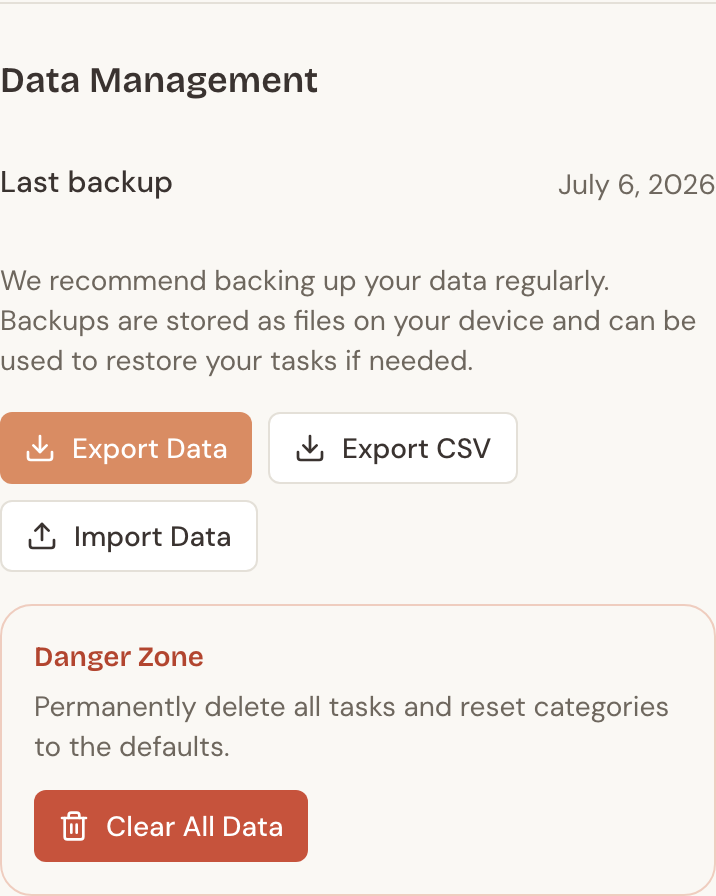
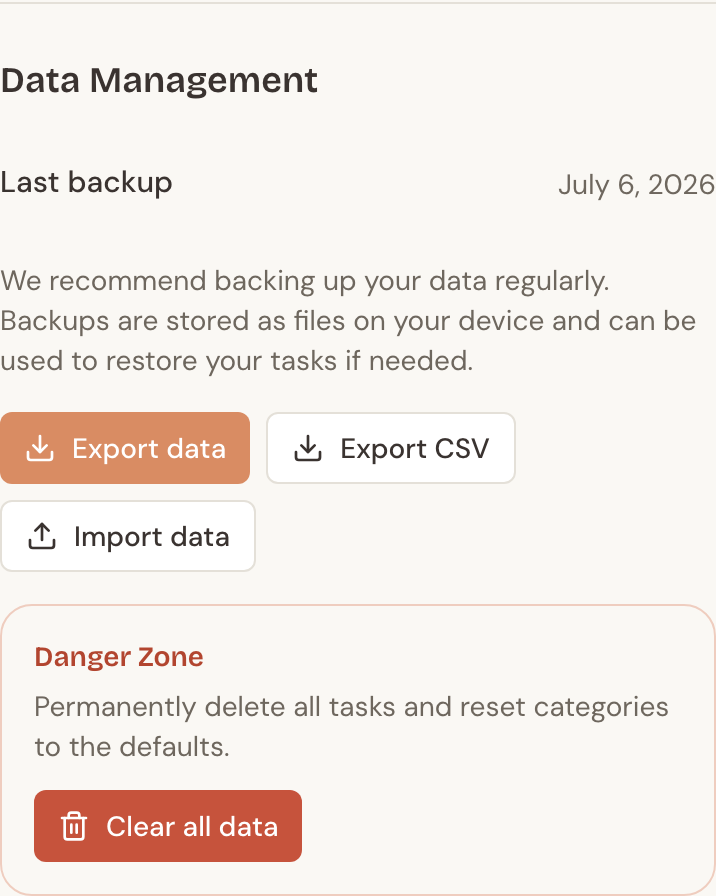
fix: 1.0.0 final-review fixes (copy, casing, docs, theme-color)
Pre-release review (full test suite + three parallel audits) surfaced 11
should-fixes and 17 nits; this applies all of them.

App copy: honest archive wording (no un-archive path in this version),
default-view helper reflects the follows-your-last-view behavior, import
dialog lists settings among what's replaced, "Task deleted" toast and
"Can't remove a default category that still has tasks" error unify the
delete/remove terminology, About blurb drops the idiom, and the "None"
icon pill loses its label-in-name violation (WCAG 2.5.3).

Casing convention (new, codified in CONTENT_STRATEGY_GUIDE §2.2):
sentence case for buttons/actions (Export data, Import data, Clear all
data, New category), Title Case for screen/dialog titles, acronyms stay
uppercase. Tests, guide text, and the three affected screenshots
(settings-data, categories, edit-task) regenerated; the other nine PNGs
are byte-identical.

Theme-color now tracks dark mode: media-scoped meta pair in index.html,
overridden by the pre-paint script and PreferencesProvider when a theme
is forced, restored per-media for 'system' (new unit test).

Docs: Req 11.7 → 9.7 everywhere it was miscited (CHANGELOG, ROADMAP,
ci.yml comment, B0 register), DEVELOPER_GUIDE same-day staleness cluster
(B9 marked done with register link, honest Notifications description,
"both places" version rule, five chunks + completions log in status),
ROADMAP header qualifier for the ✅ batches, README Phase 2 blurb,
[…]

diff --git a/public/user-guide.html b/public/user-guide.html
@@ -194,9 +194,9 @@ a fact, not a scolding.</li>
 <li><strong>Fast.</strong> Adding a task takes seconds, and marking one done is a single tap.</li>
 </ul>
 <h2 id="add-your-first-task">Add your first task</h2>
-<p><img src="images/user-guide/add-task.png" alt="The Add Task form, showing the name field and category pills" loading="lazy" /></p>
-<p>Tap the round <strong>+</strong> button (the terracotta circle in the bottom corner) to open
-the New Task form. Only two things are required:</p>
+<p><img src="images/user-guide/add-task.png" alt="The New Task form, showing the name field and category pills" loading="lazy" /></p>
+<p>Tap the terracotta <strong>+</strong> button in the bottom corner to open the New Task form.
+Only two things are required:</p>
 <ul>
 <li><strong>Task name</strong> — what needs doing, like “Descale coffee maker.” Up to 128
 characters.</li>
@@ -212,8 +212,8 @@ setting.</li>
 what lets the app flag a task as due soon or overdue. Leave it blank and the
 task is never overdue — the app just tracks how long it’s been.</li>
 <li><strong>Last done</strong> — Today, Yesterday, or Pick date. Already did it a while ago?
-Backfill the real date so the count starts from the right place. The default is
-“Not done yet.”</li>
+Backfill the real date so the count starts from the right place. If you leave
+it unset, the task starts as <strong>New</strong>.</li>
 </ul>
 <p>Need to jot down more? Open <strong>Add details</strong> for a description and private notes.
 When you’re happy, tap <strong>Save task</strong>.</p>
@@ -230,7 +230,8 @@ they show up as dashed suggestions you can tap to reuse.</p>
 same name. From then on they’re independent: completing “Guest room” doesn’t
 touch “Main bedroom,” and editing one never changes the others. In the By
 Category and By Time views they tuck neatly into a single group row so your list
-stays tidy (more on that next).</p>
+stays tidy (more on that next). In Quick Wins each place is ranked on its own,
+so an urgent one never hides inside a group.</p>
 <h2 id="three-ways-to-see-your-tasks">Three ways to see your tasks</h2>
 <p>Three tabs sit at the top of the app, and it remembers whichever one you used
 last.</p>
@@ -288,10 +289,10 @@ category, time estimate, frequency, last-done date, the place label, and the
 details. Tap <strong>Save changes</strong> when you’re done.</p>
 <p>At the bottom is a <strong>Remove Task</strong> area with two choices:</p>
 <ul>
-<li><strong>Archive</strong> hides the task from every view but keeps it in your data. Use this
-for something you’ve stopped doing but might pick up again. Note: this version
-has no in-app “un-archive” button yet — an archived task stays in your backups,
-so restoring a backup that still contains it brings it back.</li>
+<li><strong>Archive</strong> hides the task from every view but keeps it in your data and your
+backups. Use it for something you’ve stopped doing but might pick up again.
+This version has no un-archive button yet — archived tasks simply wait, safely
+stored, until a future update adds one.</li>
 <li><strong>Delete</strong> removes the task permanently, after a quick confirmation. This one
 can’t be undone.</li>
 </ul>
@@ -305,7 +306,8 @@ Category view.</p>
 icon (15 options plus “None”), and add categories of your own. Deleting follows a
 few sensible rules:</p>
 <ul>
-<li>An <strong>empty</strong> category deletes after a quick confirm.</li>
+<li>An <strong>empty</strong> category deletes after a quick confirm. (Archived tasks still
+count — a category holding only archived tasks asks for reassignment too.)</li>
 <li>A category <strong>with tasks</strong> asks you to reassign those tasks to another category
 first.</li>
 <li>A <strong>default</strong> category that still has tasks can’t be deleted — edit it instead.</li>
@@ -319,7 +321,8 @@ first.</li>
 <li>Turn on <strong>High contrast</strong> for stronger borders and text.</li>
 <li>Turn on <strong>Reduced motion</strong> to calm animations.</li>
 </ul>
-<p>You can also set your <strong>default view</strong> — the tab the app opens to. Under
+<p>You can also pick your <strong>Default View</strong> — the tab the app opens to. Switching
+tabs updates it too, so the app normally opens right where you left off. Under
 <strong>Notifications</strong>, you’ll see why reminders live inside the app: your data stays
 on your device with no account, so there are no phone or email alerts to turn on
 yet. Phone notifications may come in a later release, alongside optional cloud
@@ -329,15 +332,15 @@ sync.</p>
 <p>Because your data lives only on your device, backups matter. In Settings under
 <strong>Data Management</strong>:</p>
 <ul>
-<li><strong>Export Data</strong> saves a complete JSON backup file. This is the full,
+<li><strong>Export data</strong> saves a complete JSON backup file. This is the full,
 restorable copy of everything, and it stamps the “Last backup” date.</li>
 <li><strong>Export CSV</strong> saves a tasks-only spreadsheet — handy for viewing your tasks
 elsewhere, though it isn’t used for restoring.</li>
-<li><strong>Import Data</strong> restores from a JSON backup. Importing <strong>replaces everything</strong>
+<li><strong>Import data</strong> restores from a JSON backup. Importing <strong>replaces everything</strong>
 currently in the app, so it asks you to confirm first.</li>
 </ul>
 <p>If it’s been more than two weeks since your last backup, a gentle reminder banner
-appears. And in the Danger Zone, <strong>Clear All Data</strong> wipes your tasks and resets
+appears. And in the Danger Zone, <strong>Clear all data</strong> wipes your tasks and resets
 the categories to the ten defaults — useful for starting fresh, but there’s no
 undo, so export first.</p>
 <h2 id="install-it-and-use-it-offline">Install it and use it offline</h2>
@@ -354,13 +357,13 @@ set. Past 80% of that interval, it’s “due soon”; past 100%, “overdue”;
 at all.</p>
 <p><strong>Can I share my tasks with my household?</strong>
 Not yet — sharing and syncing between devices are planned for a later release.
-For now, you can move your data between devices with Export Data and Import Data.</p>
+For now, you can move your data between devices with Export data and Import data.</p>
 <p><strong>How do I back up my data?</strong>
-Go to Settings → Data Management → Export Data. Keep that JSON file somewhere
+Go to Settings → Data Management → Export data. Keep that JSON file somewhere
 safe; it’s the only file that can fully restore your tasks.</p>
 <p><strong>What happens if I clear my browser data?</strong>
-Because everything is stored in your browser, clearing site data (or using Clear
-All Data) removes your tasks. That’s exactly why regular backups are worth the
+Because everything is stored in your browser, clearing site data (or using
+Clear all data) removes your tasks. That’s exactly why regular backups are worth the
 few seconds — an exported JSON file lets you restore everything.</p>
       </main>
       <footer>

diff --git a/src/components/layout/PreferencesProvider.test.tsx b/src/components/layout/PreferencesProvider.test.tsx
@@ -49,6 +49,35 @@ describe('PreferencesProvider', () => {
     expect(document.documentElement.hasAttribute('data-theme')).toBe(false);
   });
 
+  it('points both theme-color metas at a forced theme, then restores them for system', async () => {
+    document.head.insertAdjacentHTML(
+      'beforeend',
+      '<meta name="theme-color" content="#FAF8F4" media="(prefers-color-scheme: light)" />' +
+        '<meta name="theme-color" content="#24211D" media="(prefers-color-scheme: dark)" />',
+    );
+    const metaContents = () =>
+      Array.from(
+        document.head.querySelectorAll<HTMLMetaElement>('meta[name="theme-color"]'),
+        (m) => m.content,
+      );
+
+    try {
+      await db.settings.add({ ...DEFAULT_SETTINGS, theme: 'dark' });
+      render(<PreferencesProvider>app</PreferencesProvider>);
+
+      await waitFor(() => {
+        expect(metaContents()).toEqual(['#24211D', '#24211D']);
+      });
+
+      await db.settings.update('1', { theme: 'system' });
+      await waitFor(() => {
+        expect(metaContents()).toEqual(['#FAF8F4', '#24211D']);
+      });
+    } finally {
+      for (const m of document.head.querySelectorAll('meta[name="theme-color"]')) m.remove();
+    }
+  });
+
   it('adds no axe violations around its children', async () => {
     await db.settings.add({ ...DEFAULT_SETTINGS });
     const { container } = render(

diff --git a/src/components/layout/PreferencesProvider.tsx b/src/components/layout/PreferencesProvider.tsx
@@ -7,6 +7,13 @@ import { mirrorPrefsToStorage, type VisualPrefs } from '@/lib/settings';
 import type { AppSettings } from '@/types';
 
 /**
+ * Browser-chrome colors per theme — the Soft Daylight page surfaces
+ * (docs/STYLE_GUIDE.md §1). Must match the static <meta name="theme-color">
+ * pair and the pre-paint script in index.html.
+ */
+const THEME_COLOR = { light: '#FAF8F4', dark: '#24211D' } as const;
+
+/**
  * Applies the persisted `AppSettings` visual preferences to the document root as
  * data-attributes that styles/globals.css keys off:
  *   theme         → [data-theme] ('light'/'dark'; removed for 'system' so the
@@ -14,6 +21,7 @@ import type { AppSettings } from '@/types';
  *   textSize      → [data-text-size]
  *   highContrast  → [data-high-contrast]
  *   reducedMotion → [data-reduced-motion]
+ * Also keeps the theme-color metas (browser chrome) in step with the theme.
  * Persisted state lives in Dexie (read via useLiveQuery), never in Zustand.
  */
 function applyPreferences(settings: VisualPrefs): void {
@@ -23,6 +31,18 @@ function applyPreferences(settings: VisualPrefs): void {
     root.setAttribute('data-theme', settings.theme);
   } else {
     root.removeAttribute('data-theme');
+  }
+
+  // A forced theme overrides both media-scoped metas; 'system' restores each
+  // meta to its own color so prefers-color-scheme governs again.
+  for (const meta of document.querySelectorAll<HTMLMetaElement>('meta[name="theme-color"]')) {
+    if (settings.theme === 'light' || settings.theme === 'dark') {
+      meta.content = THEME_COLOR[settings.theme];
+    } else {
+      meta.content = (meta.getAttribute('media') ?? '').includes('dark')
+        ? THEME_COLOR.dark
+        : THEME_COLOR.light;
+    }
   }
 
   if (settings.textSize && settings.textSize !== 'default') {

diff --git a/e2e/import-export.spec.ts b/e2e/import-export.spec.ts
@@ -17,13 +17,13 @@ test('JSON export → clear → import round-trip restores the task; CSV export 
   await page.goto('/settings');
 
   // Scope to the Data Management section — the backup-reminder banner also has an
-  // "Export Data" button when no backup exists yet.
+  // "Export data" button when no backup exists yet.
   const dm = page.getByRole('region', { name: 'Data Management' });
 
   // Export the full JSON backup and capture its contents.
   const [jsonDownload] = await Promise.all([
     page.waitForEvent('download'),
-    dm.getByRole('button', { name: 'Export Data' }).click(),
+    dm.getByRole('button', { name: 'Export data' }).click(),
   ]);
   expect(jsonDownload.suggestedFilename()).toMatch(
     /^how-long-since-backup-\d{4}-\d{2}-\d{2}\.json$/,
@@ -33,9 +33,9 @@ test('JSON export → clear → import round-trip restores the task; CSV export 
   expect(backup.toString()).toContain(NAME);
 
   // Clear everything (the danger-zone button, then the confirm dialog's button).
-  await dm.getByRole('button', { name: 'Clear All Data' }).click();
+  await dm.getByRole('button', { name: 'Clear all data' }).click();
   const clearDialog = page.getByRole('dialog', { name: 'Clear all data?' });
-  await clearDialog.getByRole('button', { name: 'Clear All Data' }).click();
+  await clearDialog.getByRole('button', { name: 'Clear all data' }).click();
   await expect(page.getByText('All data cleared')).toBeVisible();
 
   // Re-import the captured backup via the hidden file input.
@@ -77,16 +77,16 @@ test('a series survives the JSON round-trip intact (Phase 1.1)', async ({ page }
 
   const [download] = await Promise.all([
     page.waitForEvent('download'),
-    dm.getByRole('button', { name: 'Export Data' }).click(),
+    dm.getByRole('button', { name: 'Export data' }).click(),
   ]);
   const backup = await readFile(await download.path());
   expect(backup.toString()).toContain('seriesId');
   expect(backup.toString()).toContain('instanceLabel');
 
-  await dm.getByRole('button', { name: 'Clear All Data' }).click();
+  await dm.getByRole('button', { name: 'Clear all data' }).click();
   await page
     .getByRole('dialog', { name: 'Clear all data?' })
-    .getByRole('button', { name: 'Clear All Data' })
+    .getByRole('button', { name: 'Clear all data' })
     .click();
   await expect(page.getByText('All data cleared')).toBeVisible();
 

diff --git a/index.html b/index.html
@@ -3,7 +3,10 @@
   <head>
     <meta charset="UTF-8" />
     <meta name="viewport" content="width=device-width, initial-scale=1.0, viewport-fit=cover" />
-    <meta name="theme-color" content="#FAF8F4" />
+    <!-- Media-scoped pair covers the 'system' theme; a forced light/dark choice
+         overrides both (pre-paint script below + PreferencesProvider). -->
+    <meta name="theme-color" content="#FAF8F4" media="(prefers-color-scheme: light)" />
+    <meta name="theme-color" content="#24211D" media="(prefers-color-scheme: dark)" />
     <meta name="description" content="Track how long it's been since you last did something." />
     <title>How Long Since</title>
     <!--
@@ -18,7 +21,14 @@
         try {
           var p = JSON.parse(localStorage.getItem('hls-prefs') || '{}');
           var el = document.documentElement;
-          if (p.theme === 'light' || p.theme === 'dark') el.setAttribute('data-theme', p.theme);
+          if (p.theme === 'light' || p.theme === 'dark') {
+            el.setAttribute('data-theme', p.theme);
+            // Point both theme-color metas at the forced theme so the browser
+            // chrome matches even when it disagrees with prefers-color-scheme.
+            var color = p.theme === 'dark' ? '#24211D' : '#FAF8F4';
+            var metas = document.querySelectorAll('meta[name="theme-color"]');
+            for (var i = 0; i < metas.length; i++) metas[i].setAttribute('content', color);
+          }
           if (p.textSize && p.textSize !== 'default') el.setAttribute('data-text-size', p.textSize);
           if (p.highContrast) el.setAttribute('data-high-contrast', 'true');
           if (p.reducedMotion) el.setAttribute('data-reduced-motion', 'true');

diff --git a/src/components/settings/DataManagementSection.tsx b/src/components/settings/DataManagementSection.tsx
@@ -110,13 +110,13 @@ export function DataManagementSection({ settings }: { settings: AppSettings }) {
 
       <div className="flex flex-wrap gap-2">
         <Button type="button" onClick={() => void handleExportJson()}>
-          <Download aria-hidden="true" /> Export Data
+          <Download aria-hidden="true" /> Export data
         </Button>
         <Button type="button" variant="outline" onClick={() => void handleExportCsv()}>
           <Download aria-hidden="true" /> Export CSV
         </Button>
         <Button type="button" variant="outline" onClick={() => fileInputRef.current?.click()}>
-          <Upload aria-hidden="true" /> Import Data
+          <Upload aria-hidden="true" /> Import data
         </Button>
       </div>
       <input
@@ -140,7 +140,7 @@ export function DataManagementSection({ settings }: { settings: AppSettings }) {
           className="mt-3"
           onClick={() => setClearOpen(true)}
         >
-          <Trash2 aria-hidden="true" /> Clear All Data
+          <Trash2 aria-hidden="true" /> Clear all data
         </Button>
       </div>
 
@@ -154,7 +154,8 @@ export function DataManagementSection({ settings }: { settings: AppSettings }) {
           <DialogHeader>
             <DialogTitle>Import this backup?</DialogTitle>
             <DialogDescription>
-              Importing replaces your current tasks and categories. This can&rsquo;t be undone.
+              Importing replaces your current tasks, categories, and settings. This can&rsquo;t be
+              undone.
             </DialogDescription>
           </DialogHeader>
           <DialogFooter>
@@ -181,7 +182,7 @@ export function DataManagementSection({ settings }: { settings: AppSettings }) {
               Cancel
             </Button>
             <Button type="button" variant="destructive" onClick={() => void confirmClear()}>
-              Clear All Data
+              Clear all data
             </Button>
           </DialogFooter>
         </DialogContent>

diff --git a/src/components/settings/DataManagementSection.test.tsx b/src/components/settings/DataManagementSection.test.tsx
@@ -16,10 +16,10 @@ describe('DataManagementSection', () => {
   it('shows the empty backup state and all data actions', () => {
     render(<DataManagementSection settings={{ ...DEFAULT_SETTINGS, lastBackupDate: null }} />);
     expect(screen.getByText('No previous backups found.')).toBeInTheDocument();
-    expect(screen.getByRole('button', { name: /Export Data/ })).toBeInTheDocument();
+    expect(screen.getByRole('button', { name: /Export data/ })).toBeInTheDocument();
     expect(screen.getByRole('button', { name: /Export CSV/ })).toBeInTheDocument();
-    expect(screen.getByRole('button', { name: /Import Data/ })).toBeInTheDocument();
-    expect(screen.getByRole('button', { name: /Clear All Data/ })).toBeInTheDocument();
+    expect(screen.getByRole('button', { name: /Import data/ })).toBeInTheDocument();
+    expect(screen.getByRole('button', { name: /Clear all data/ })).toBeInTheDocument();
   });
 
   it('formats a stored backup date instead of the empty state', () => {
@@ -33,7 +33,7 @@ describe('DataManagementSection', () => {
 
   it('confirms before clearing all data', async () => {
     render(<DataManagementSection settings={{ ...DEFAULT_SETTINGS }} />);
-    fireEvent.click(screen.getByRole('button', { name: /Clear All Data/ }));
+    fireEvent.click(screen.getByRole('button', { name: /Clear all data/ }));
     expect(await screen.findByRole('heading', { name: 'Clear all data?' })).toBeInTheDocument();
   });
 

diff --git a/src/components/category/ManageCategories.tsx b/src/components/category/ManageCategories.tsx
@@ -46,7 +46,7 @@ export function ManageCategories() {
   const handleRemoveClick = (category: Category) => {
     const count = counts.get(category.id) ?? 0;
     if (category.isDefault && count > 0) {
-      toast.error('Cannot delete the default category. Try editing it instead.');
+      toast.error("Can't remove a default category that still has tasks. Try editing it instead.");
       return;
     }
     setReassignTargetId('');
@@ -79,7 +79,7 @@ export function ManageCategories() {
           Categories
         </h2>
         <Button type="button" size="sm" onClick={() => setCreating(true)}>
-          New Category
+          New category
         </Button>
       </div>
 

diff --git a/src/components/task/RemoveTaskSection.tsx b/src/components/task/RemoveTaskSection.tsx
@@ -40,7 +40,7 @@ export function RemoveTaskSection({ task, onRemoved }: RemoveTaskSectionProps) {
   const handleDelete = async () => {
     try {
       await deleteTask(task.id);
-      toast.success('Task removed');
+      toast.success('Task deleted');
       onRemoved();
     } catch {
       toast.error("Changes couldn't be saved. Try again.");
@@ -58,7 +58,7 @@ export function RemoveTaskSection({ task, onRemoved }: RemoveTaskSectionProps) {
         Remove Task
       </h3>
       <p className="mt-1 text-xs text-ink-meta-aa">
-        Archive keeps it (hidden, restorable). Delete removes it permanently.
+        Archive hides it from every view but keeps it in your data. Delete removes it permanently.
       </p>
       <div className="mt-3 flex gap-2">
         <Button type="button" variant="outline" onClick={handleArchive}>

diff --git a/src/components/category/ManageCategories.test.tsx b/src/components/category/ManageCategories.test.tsx
@@ -43,7 +43,7 @@ describe('ManageCategories', () => {
     await user.click(within(row).getByRole('button', { name: 'Remove' }));
 
     expect(toastError).toHaveBeenCalledWith(
-      'Cannot delete the default category. Try editing it instead.',
+      "Can't remove a default category that still has tasks. Try editing it instead.",
     );
     expect(screen.queryByText('Reassign tasks first')).not.toBeInTheDocument();
     expect(await db.categories.get(KITCHEN.id)).toBeTruthy();

diff --git a/src/components/layout/BackupReminderBanner.test.tsx b/src/components/layout/BackupReminderBanner.test.tsx
@@ -19,7 +19,7 @@ describe('BackupReminderBanner', () => {
     render(<BackupReminderBanner />);
 
     expect(await screen.findByRole('region', { name: 'Backup reminder' })).toBeInTheDocument();
-    expect(screen.getByRole('button', { name: 'Export Data' })).toBeInTheDocument();
+    expect(screen.getByRole('button', { name: 'Export data' })).toBeInTheDocument();
   });
 
   it('stays hidden when the last backup is recent', async () => {

diff --git a/src/components/layout/BackupReminderBanner.tsx b/src/components/layout/BackupReminderBanner.tsx
@@ -48,7 +48,7 @@ export function BackupReminderBanner() {
         </p>
         <div className="flex shrink-0 items-center gap-2">
           <Button type="button" onClick={() => void handleExport()}>
-            Export Data
+            Export data
           </Button>
           <button
             type="button"